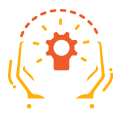
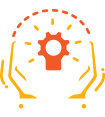
responsive

diff --git a/AboutUsPage/index.html b/AboutUsPage/index.html
@@ -326,7 +326,7 @@
           <div class="center-wrap">
             <div class="container">
               <h1>ABOUT US</h1>
-              <img class="header-img-mt4" src="./images/web-header-img.png" width="648" height="518">
+              <img class="header-img-mt4" src="./images/web-header-img.png" width="528" height="400">
             </div>
           </div>
         </div>
@@ -352,31 +352,31 @@
               <h3 class="xxl-box">WHY FXORO?</h3>
               <div class="ml-0 mt-2">
                 <div class="s-box">
-                  <img src="./images/tehnology-icon.png">
-                  <p class="text-yalow text-bold">TECHNOLOGY</p>
-                  <p>We offer you a wide range of products in the FX
+                  <img src="./images/tehnology-icon.png" width="121" height="117">
+                  <p class="text-yalow text-bold mt-0 mb-0">TECHNOLOGY</p>
+                  <p class="mt-0">We offer you a wide range of products in the FX
                     and CFD markets while using leading technology
                     and skilled experienced staff to provide you the best possible experience.</p>
                 </div>
                 <div class="s-box">
-                  <img src="./images/safety-icon.png">
-                  <p class="text-yalow text-bold">SAFETY</p>
-                  <p>Rely on our highest standard of account security.
+                  <img src="./images/safety-icon.png" width="105" height="117">
+                  <p class="text-yalow text-bold mt-0 mb-0 ml-2">SAFETY</p>
+                  <p class="mt-0">Rely on our highest standard of account security.
                     We are regulated by one of the world’s biggest supervision authorities – CySEC</p>
                 </div>
               </div>
               <div class="divider"></div>
              <div class=" mx-auto mt-2">
                 <div class="s-box ml-3">
-                  <img src="./images/suport-icon.png">
-                  <p class="text-yalow text-bold">SUPPORT</p>
-                  <p>We believe that our clients deserve nothing but
+                  <img src="./images/suport-icon.png" width="124" height="117">
+                  <p class="text-yalow text-bold mt-0 mb-0 ml-2">SUPPORT</p>
+                  <p class="mt-0">We believe that our clients deserve nothing but
                     the best and provide them with every tool needed to potentially succeed in the financial market.</p>
                 </div>
                 <div class="s-box ml-3">
-                  <img src="./images/education-icon.png">
-                  <p class="text-yalow text-bold">EDUCATION</p>
-                  <p>Enhancing investors’ financial education is our priority! Our educational library materials contain e-books,
+                  <img src="./images/education-icon.png" width="110" height="117">
+                  <p class="text-yalow text-bold mt-0 mb-0 ml-1">EDUCATION</p>
+                  <p class="mt-0">Enhancing investors’ financial education is our priority! Our educational library materials contain e-books,
                     videos,
                     courses and weekly webinars, suitable for both beginners and experienced traders.</p>
                 </div>

diff --git a/AboutUsPage/style.css b/AboutUsPage/style.css
@@ -90,7 +90,7 @@ p, li {
   width: 360px;
 }
 .s-box {
-  width: 500px;
+  width: 460px;
 }
 .xxs-box {
   width: 300px;
@@ -406,6 +406,11 @@ p, li {
   }
    border-bottom: 1px dashed #ffb401;
 }
+}
+@media (max-width: 1079px) {
+  .contact-bar {
+    display: none;
+  }
 }
 header {
 .sticky {
@@ -784,9 +789,9 @@ header {
 main {
   section {
     .header-img-mt4 {
-      width: clamp(325px, 70vw, 648px);
+      width: clamp(200px, 70vw, 528px);
       height: auto;
-      margin: 28px auto;
+      margin: 5px auto;
       display: flex;
     }
     .second-btn {
@@ -1074,6 +1079,14 @@ footer {
     }
   }
 }
+@media only screen and (max-width : 1150px) {
+  .divider {
+    display: none;
+  }
+  .s-box {
+    margin: 20px;
+  }
+}
 @media only screen and (max-width: 1055px) {
   .flex-container {
     flex-direction: column;
@@ -1083,6 +1096,9 @@ footer {
   }
   .flex-item-right {
     flex: 50%;
+    margin: auto;
+  }
+  .s-box {
     margin: auto;
   }
   footer {
@@ -1258,6 +1274,11 @@ footer {
       img {
         width: 35%;
         height: auto;
+        margin: auto;
+        display: block;
+      }
+      .s-box {
+        width: 300px;
       }
     }
   }
@@ -1288,6 +1309,14 @@ footer {
   }
 }
 @media only screen and (max-width: 350px) {
+  main {
+    section {
+  .s-box {
+    width: 270px;
+  }
+    }
+  }
+
   footer {
     .second-container {
       .follow-btn {

diff --git a/Mt4Page/style.css b/Mt4Page/style.css
@@ -382,6 +382,11 @@ p, li {
    border-bottom: 1px dashed #ffb401;
 }
 }
+@media (max-width: 1079px) {
+  .contact-bar {
+    display: none;
+  }
+}
 header {
 .sticky {
   position: fixed;
@@ -761,7 +766,7 @@ main {
     .header-img-mt4 {
       width: clamp(325px, 70vw, 1194px);
       height: auto;
-      margin: 28px auto;
+      margin: 25px auto;
       display: flex;
     }
     .second-btn {
